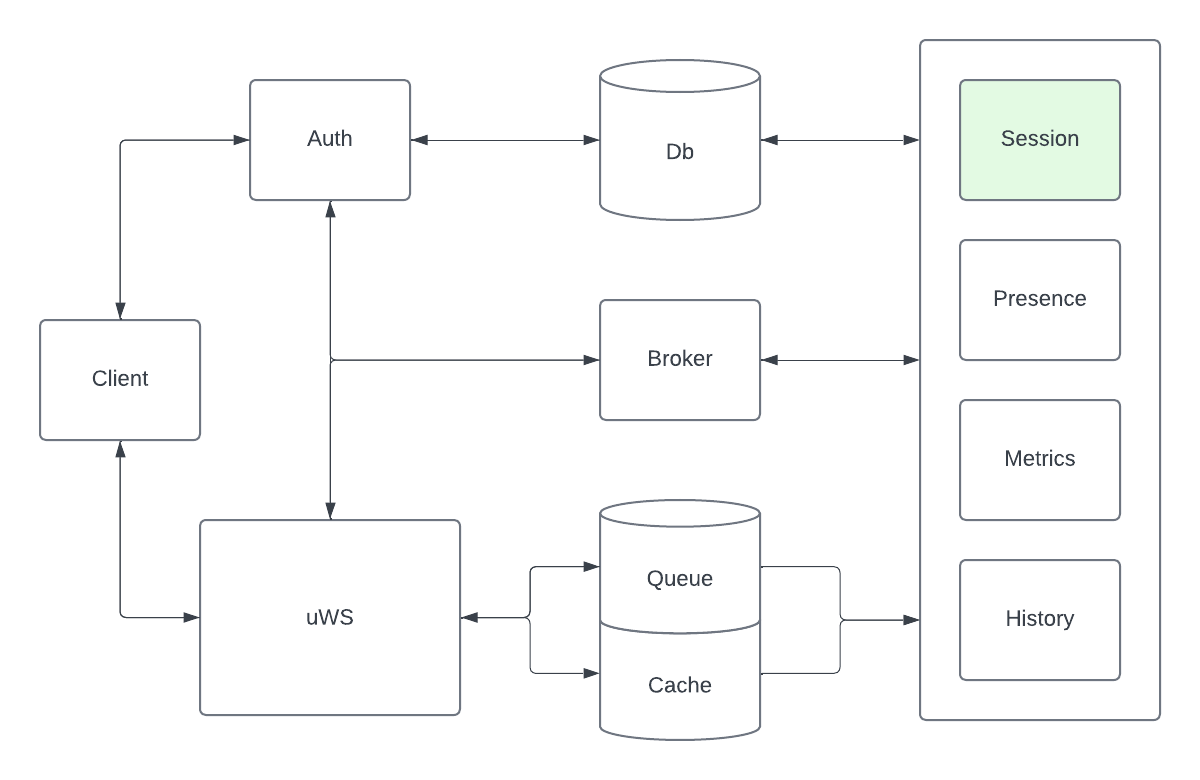
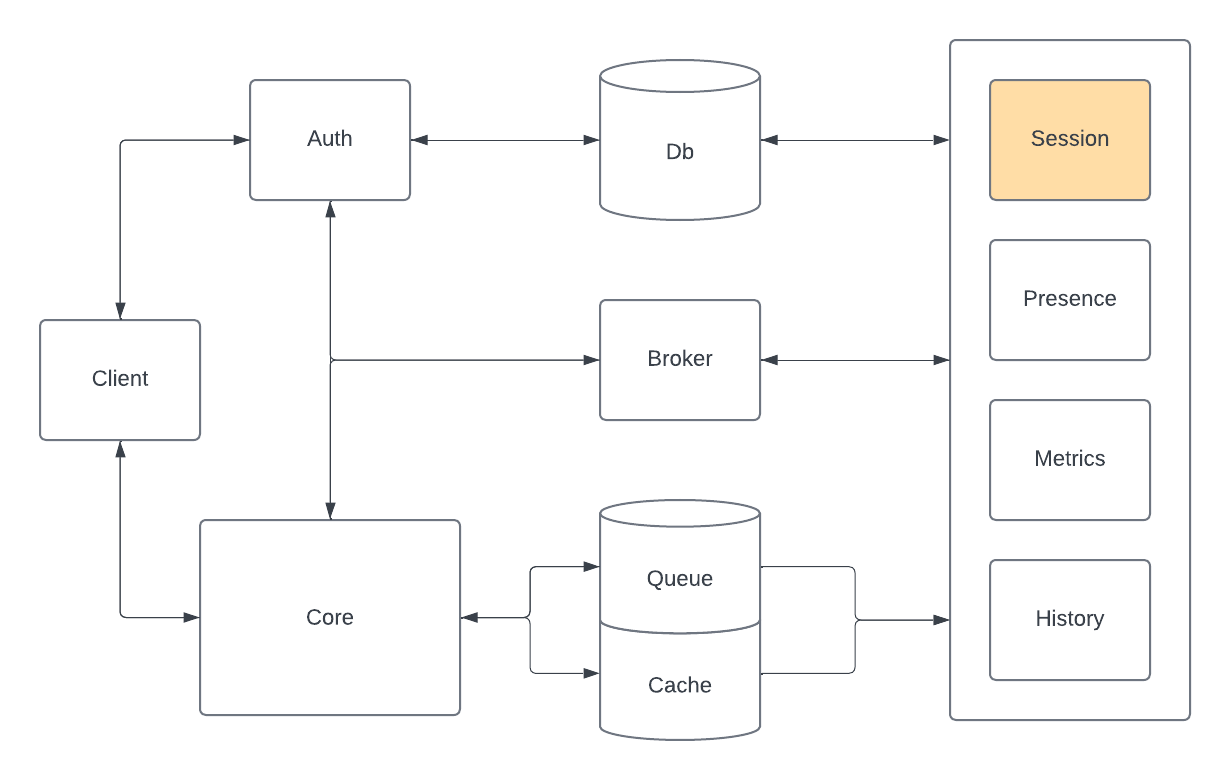
chore: add system diagram [skip ci]

diff --git a/README.md b/README.md
@@ -49,7 +49,7 @@ This mechanism enables the service to maintain a persistent session "state" acro
 
 The "Session" service initiates worker processes that handle FIFO jobs added to BullMQ by the [Core](https://github.com/relaybox/core) service. It is responsible for managing the session lifecycle, including persisting data and broadcasting events to relevant subscribers.
 
-<!-- ![RelayBox system diagram, highlight Session](/assets/system/relaybox-system-session.png) -->
+![RelayBox system diagram, highlight Session](/assets/system/relaybox-system-session.png)
 
 The following jobs are handled by the service:
 
